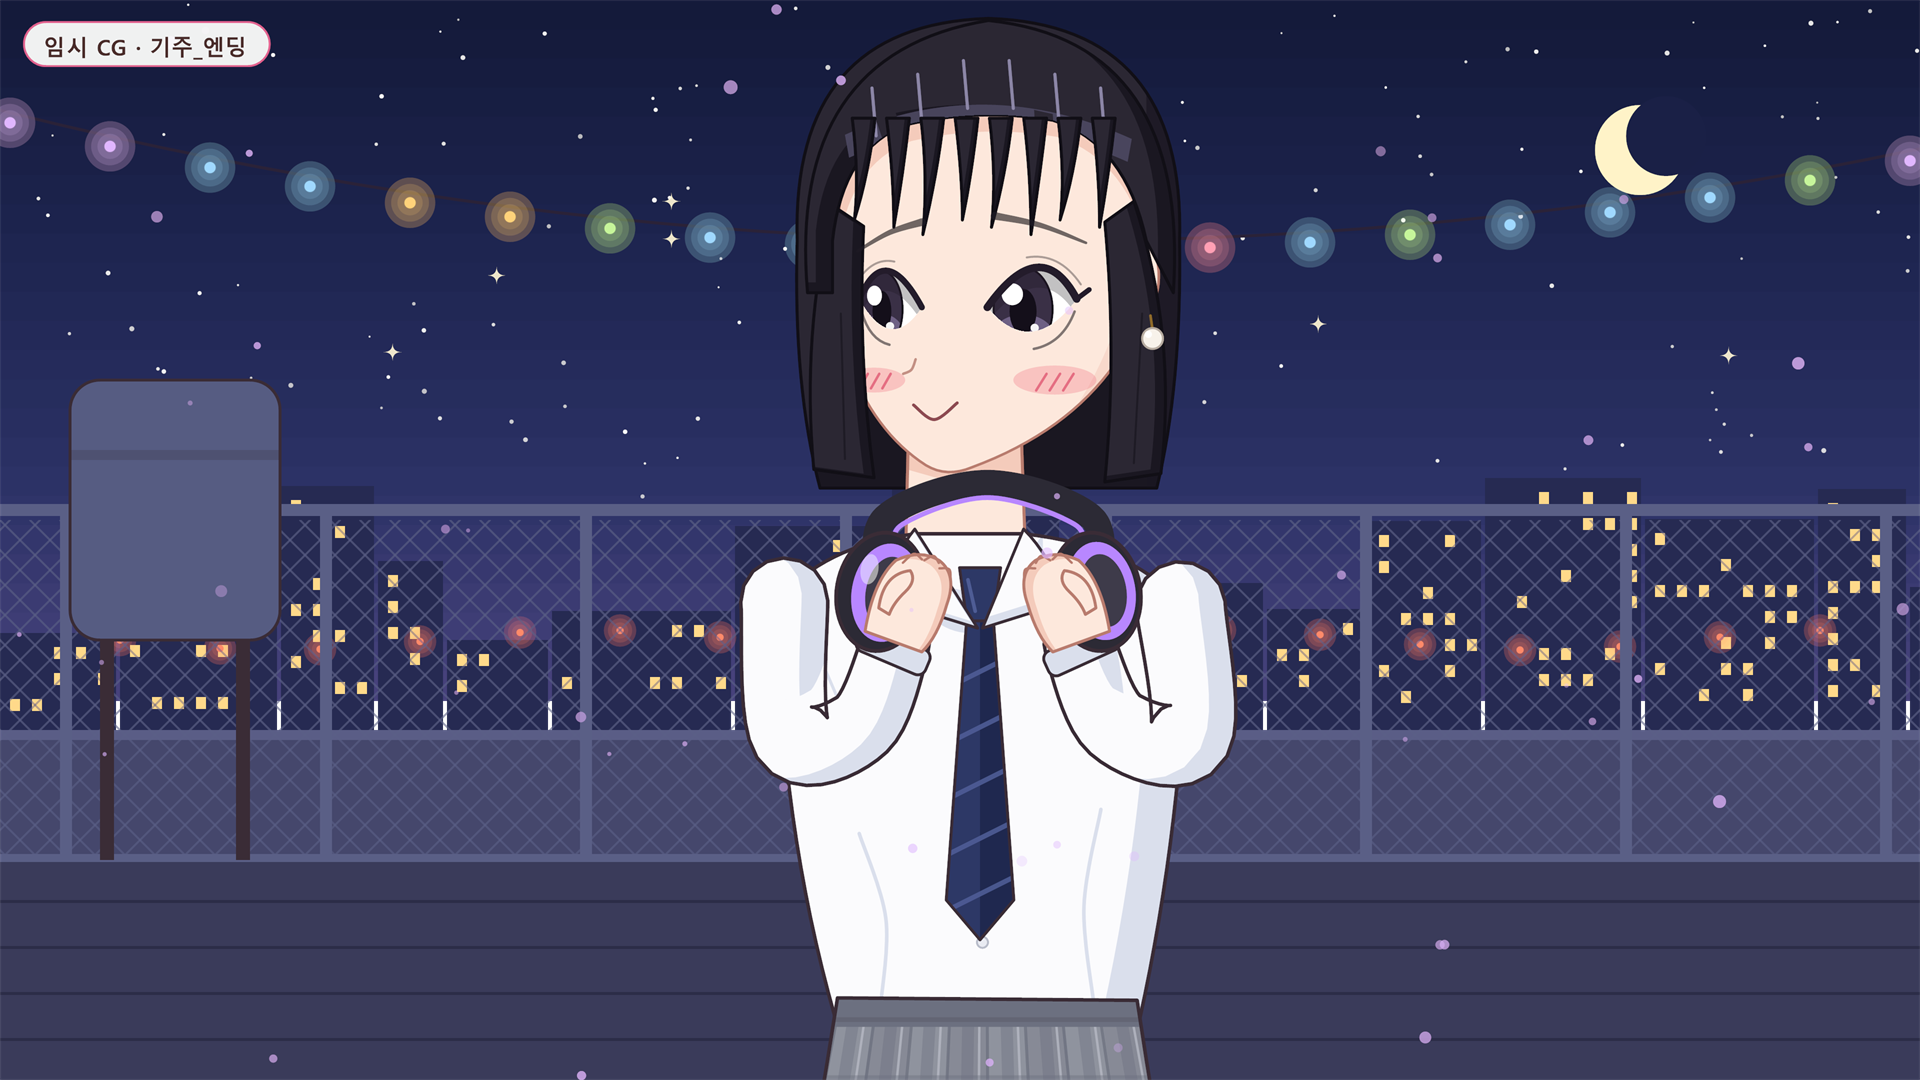
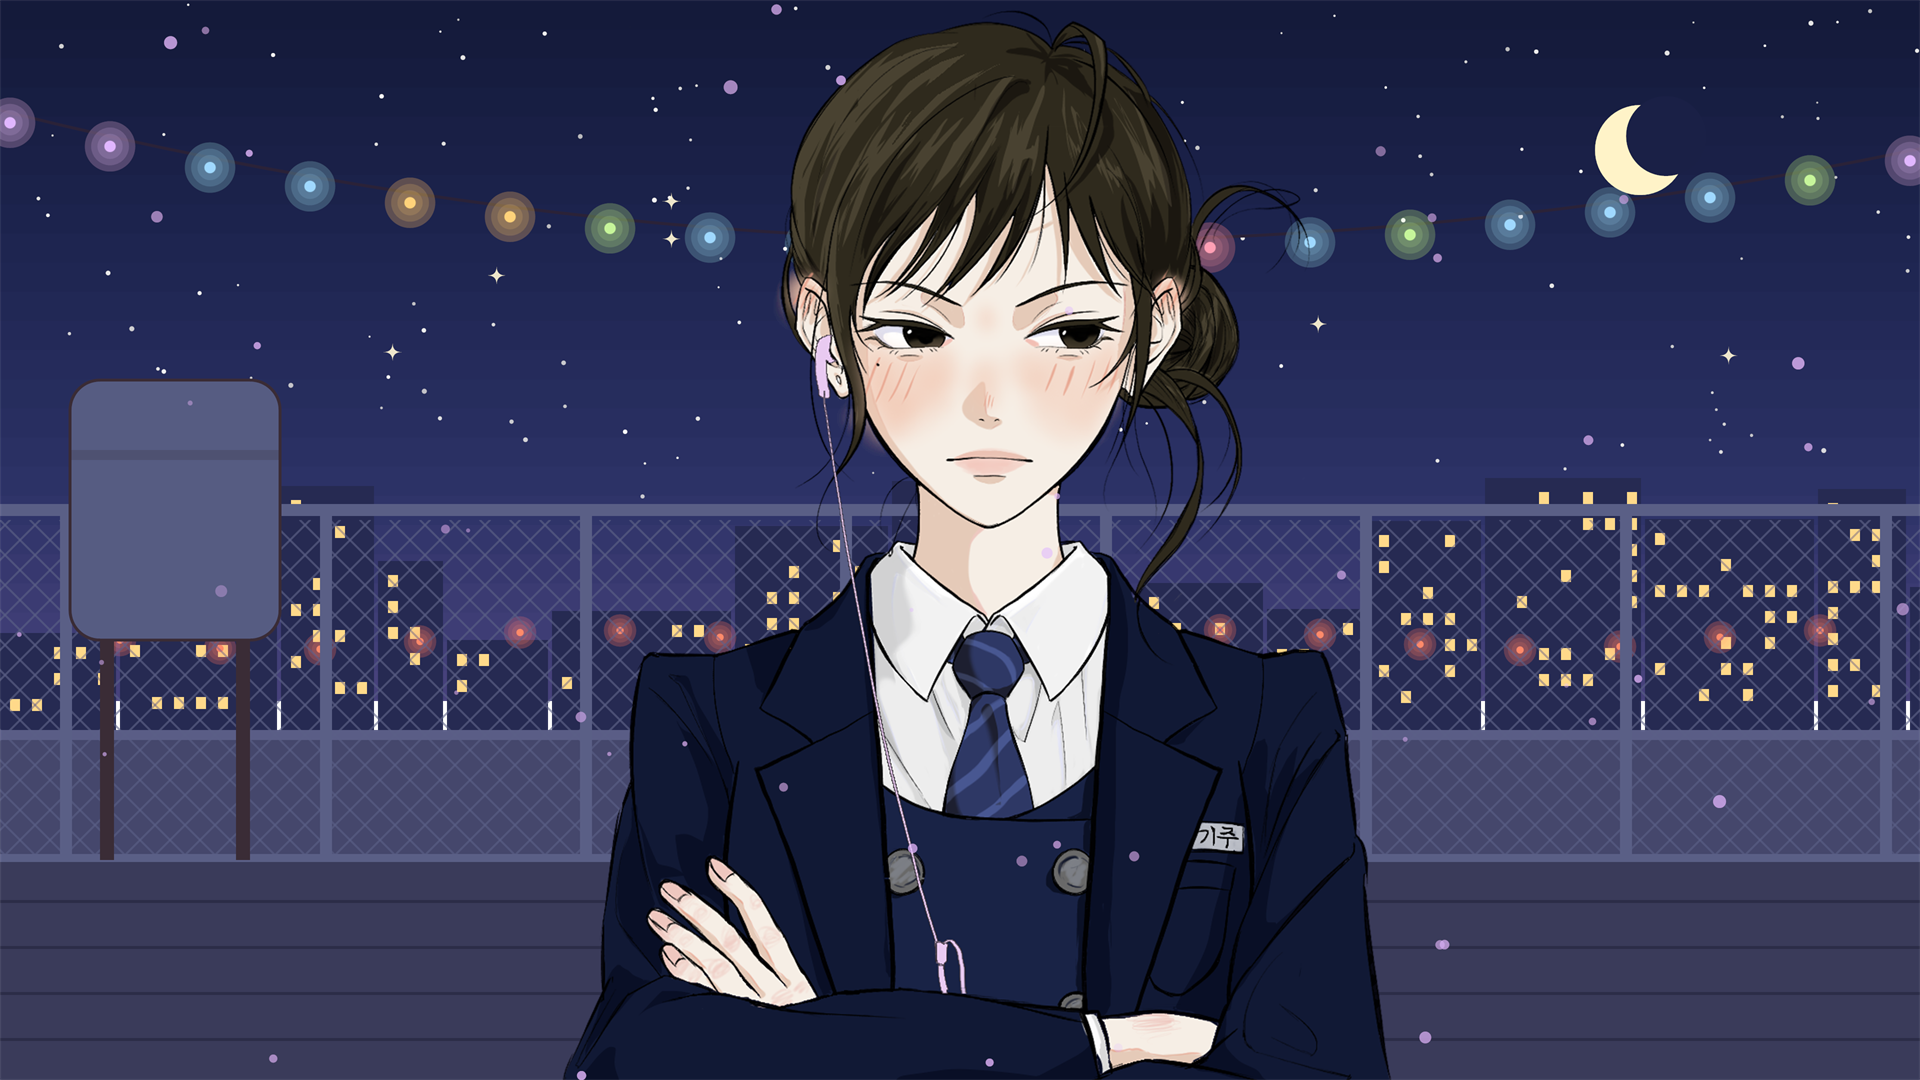
기주 엔딩 CG를 친구 그림(홍조)으로 교체, 남자 기주도 같은 CG

Changed region(s): [[0.2812, 0.0, 0.75, 1.0], [0.0, 0.0, 0.1562, 0.0611]]

diff --git a/Tools/PlaceholderArt/PlaceholderArt.cs b/Tools/PlaceholderArt/PlaceholderArt.cs
@@ -1447,10 +1447,9 @@ public static class PlaceholderArt
         {
             Rooftop(g, true);
             StringLights(g, -40, 100, 1960, 140, 120, 4);
-            var k = CG("open", "worried", "smile", "headphonesHold", true); k.LookX = -0.6f;
-            Place(g, Find("기주"), k, 980, -110, 1.14f, false);
+            // 친구가 그린 진짜 기주 그림(홍조)을 상반신으로 크게 배치 — 남자 기주도 이 CG 를 그대로 씀
+            DrawRealArt(g, "Characters\\기주_부끄럼.png", new Rectangle(0, 60, 1200, 1340), 980, -10, 0.86f);
             Particles(g, 50, H("#E0B6FF"), 4);
-            Caption(g, "임시 CG · 기주_엔딩");
         };
 
         d["수민_엔딩"] = g =>
@@ -1722,9 +1721,27 @@ public static class PlaceholderArt
 
     // 진짜 그림이 들어간 캐릭터 — 스탠딩(여자·남자 모두)을 만들지 않음 (덮어쓰기 방지)
     static readonly string[] RealStanding = { "기주" };
+    // 진짜 그림으로 만든 CG — 남자 버전("_남")을 따로 만들지 않음 (같은 CG 를 씀)
+    static readonly string[] RealArtCG = { "기주_엔딩" };
+
+    static string projectRoot;
+
+    /// <summary>Assets/Resources/ 아래의 진짜 그림 일부(src)를 cx 가운데·top 위치에 scale 배로 그림</summary>
+    static void DrawRealArt(Graphics g, string resPath, Rectangle src, float cx, float top, float scale)
+    {
+        using (var img = Image.FromFile(Path.Combine(projectRoot, "Assets\\Resources\\" + resPath)))
+        {
+            var old = g.InterpolationMode;
+            g.InterpolationMode = InterpolationMode.HighQualityBicubic;
+            float w = src.Width * scale, h = src.Height * scale;
+            g.DrawImage(img, new RectangleF(cx - w / 2, top, w, h), src, GraphicsUnit.Pixel);
+            g.InterpolationMode = old;
+        }
+    }
 
     public static void Run(string root, string filter)
     {
+        projectRoot = root;
         string chDir = Path.Combine(root, "Assets\\Resources\\Characters"), cgDir = Path.Combine(root, "Assets\\Resources\\CG");
         string[] exprs = { "기본", "웃음", "화남", "부끄럼" };
         foreach (var s in AllSpecs())
@@ -1754,7 +1771,7 @@ public static class PlaceholderArt
             var variants = new List<KeyValuePair<string, string[]>>();
             variants.Add(new KeyValuePair<string, string[]>(kv.Key, new string[0]));
             if (owner == "하렘") variants.Add(new KeyValuePair<string, string[]>(kv.Key + "_남", new[] { "승현", "서연", "기주", "수민" }));
-            else variants.Add(new KeyValuePair<string, string[]>(kv.Key + "_남", new[] { owner }));
+            else if (Array.IndexOf(RealArtCG, kv.Key) < 0) variants.Add(new KeyValuePair<string, string[]>(kv.Key + "_남", new[] { owner }));
             foreach (var v in variants)
             {
                 if (!string.IsNullOrEmpty(filter) && !v.Key.Contains(filter)) continue;

diff --git a/CLAUDE.md b/CLAUDE.md
@@ -34,6 +34,7 @@
 - 2026-10-13 15:53~16:06 등장인물 성별 선택, 남자 스탠딩·CG, 공주님/왕자님 자동 변환 → 16:16 웹 반영
 - 2026-10-14 폰 세로 화면 지원(VNOrientation), 서연(포니테일·당근 인형)·기주(귀티 나는 아가씨) 설정 변경 + 임시 그림 다시 그림
 - 2026-10-18 기주 스탠딩 4장을 친구가 그린 진짜 그림으로 교체 (기본/윙크→웃음/홍조→부끄럼/화남, 1200x2700 투명 PNG). 남자 기주도 같은 그림, 기주 설정을 그림 기준(갈색 똥머리·분홍 이어폰·팔짱)으로 변경
+- 2026-10-18 기주 엔딩 CG도 친구 그림(홍조)으로 교체 (임시 밤 옥상 배경 위에 합성)
 
 ## 게임 설정 (사용자가 정한 것 — 바꾸지 말 것)
 
@@ -71,7 +72,7 @@ Assets/Scenes/Main.unity       유일한 씬. 전체 UI가 VNSceneBuilder로 생
 ```
 
 - 이미지는 현재 전부 코드로 그린 **임시 이미지**. 사용자가 AI로 뽑은 그림으로 같은 파일명에 덮어씀
-- **진짜 그림 (덮어쓰기 절대 금지)**: `Characters/기주_기본·웃음·부끄럼·화남.png` (친구가 그린 그림, 2026-10-18). 정면 보기·가슴에 "기주" 이름표가 그려져 있어 좌우반전 시 글씨가 뒤집히지만 **사용자가 괜찮다고 함**. 남자 기주도 이 그림을 그대로 씀(`기주_남_*` 삭제됨, PlaceholderArt 의 `RealStanding` 에 등록해 다시 안 만듦). 기주 설정·프롬프트·스토리 메모는 이 그림 기준으로 맞춤
+- **진짜 그림 (덮어쓰기 절대 금지)**: `Characters/기주_기본·웃음·부끄럼·화남.png`, `CG/기주_엔딩.png`(밤 옥상 배경 + 기주_부끄럼 상반신, PlaceholderArt `DrawRealArt`로 합성. 남자 버전 없음 = 남자 기주도 같은 CG) (친구가 그린 그림, 2026-10-18). 정면 보기·가슴에 "기주" 이름표가 그려져 있어 좌우반전 시 글씨가 뒤집히지만 **사용자가 괜찮다고 함**. 남자 기주도 이 그림을 그대로 씀(`기주_남_*` 삭제됨, PlaceholderArt 의 `RealStanding` 에 등록해 다시 안 만듦). 기주 설정·프롬프트·스토리 메모는 이 그림 기준으로 맞춤
 - 임시 스탠딩·CG 생성기: `Tools/PlaceholderArt/` (C# 5, System.Drawing, `run.ps1 [이름 일부]`로 실행). **같은 이름 파일을 덮어쓰니 사용자가 진짜 그림을 넣은 뒤에는 실행 금지.** .cs는 UTF-8 BOM 필수. 캐릭터는 800x1400 왼쪽 보기, 머리는 (400,612) 기준 0.86배
 - **스토리는 현재 뼈대 상태** (사용자 선택). 선택지·호감도·분기는 완성, 대사는 `[작성]` 표시 줄로 비워 둠 → 사용자가 직접 채움. 검사기가 `[작성]` 개수를 셈. 사용자가 요청하지 않으면 대사를 대신 채우지 말 것
 - 모드 목록은 `VNEngine.modes` (이름/설명/첫 파일). 세이브에 모드 이름·첫 파일·게이지 목록·화자도 저장됨

diff --git a/캐릭터_프롬프트.md b/캐릭터_프롬프트.md
@@ -264,6 +264,8 @@ black hair, long hair, straight hair, high ponytail, blunt bangs, grey hooded zi
 
 ### 6-5. `기주_엔딩.png` — [승주가 되기] 기주 엔딩
 
+> ✅ 지금은 친구가 그린 기주 그림(홍조)을 밤 옥상 배경 위에 올린 CG가 들어가 있어요. 남자 기주도 같은 CG예요. 아래는 새로 그릴 때 참고용이에요.
+
 장면: 축제 밤 옥상. 기주가 자기 분홍 이어폰 한쪽을 승주(=화면) 귀에 꽂아 주려고 다가옴. 장난기 없이 수줍은 얼굴.
 
 ```
